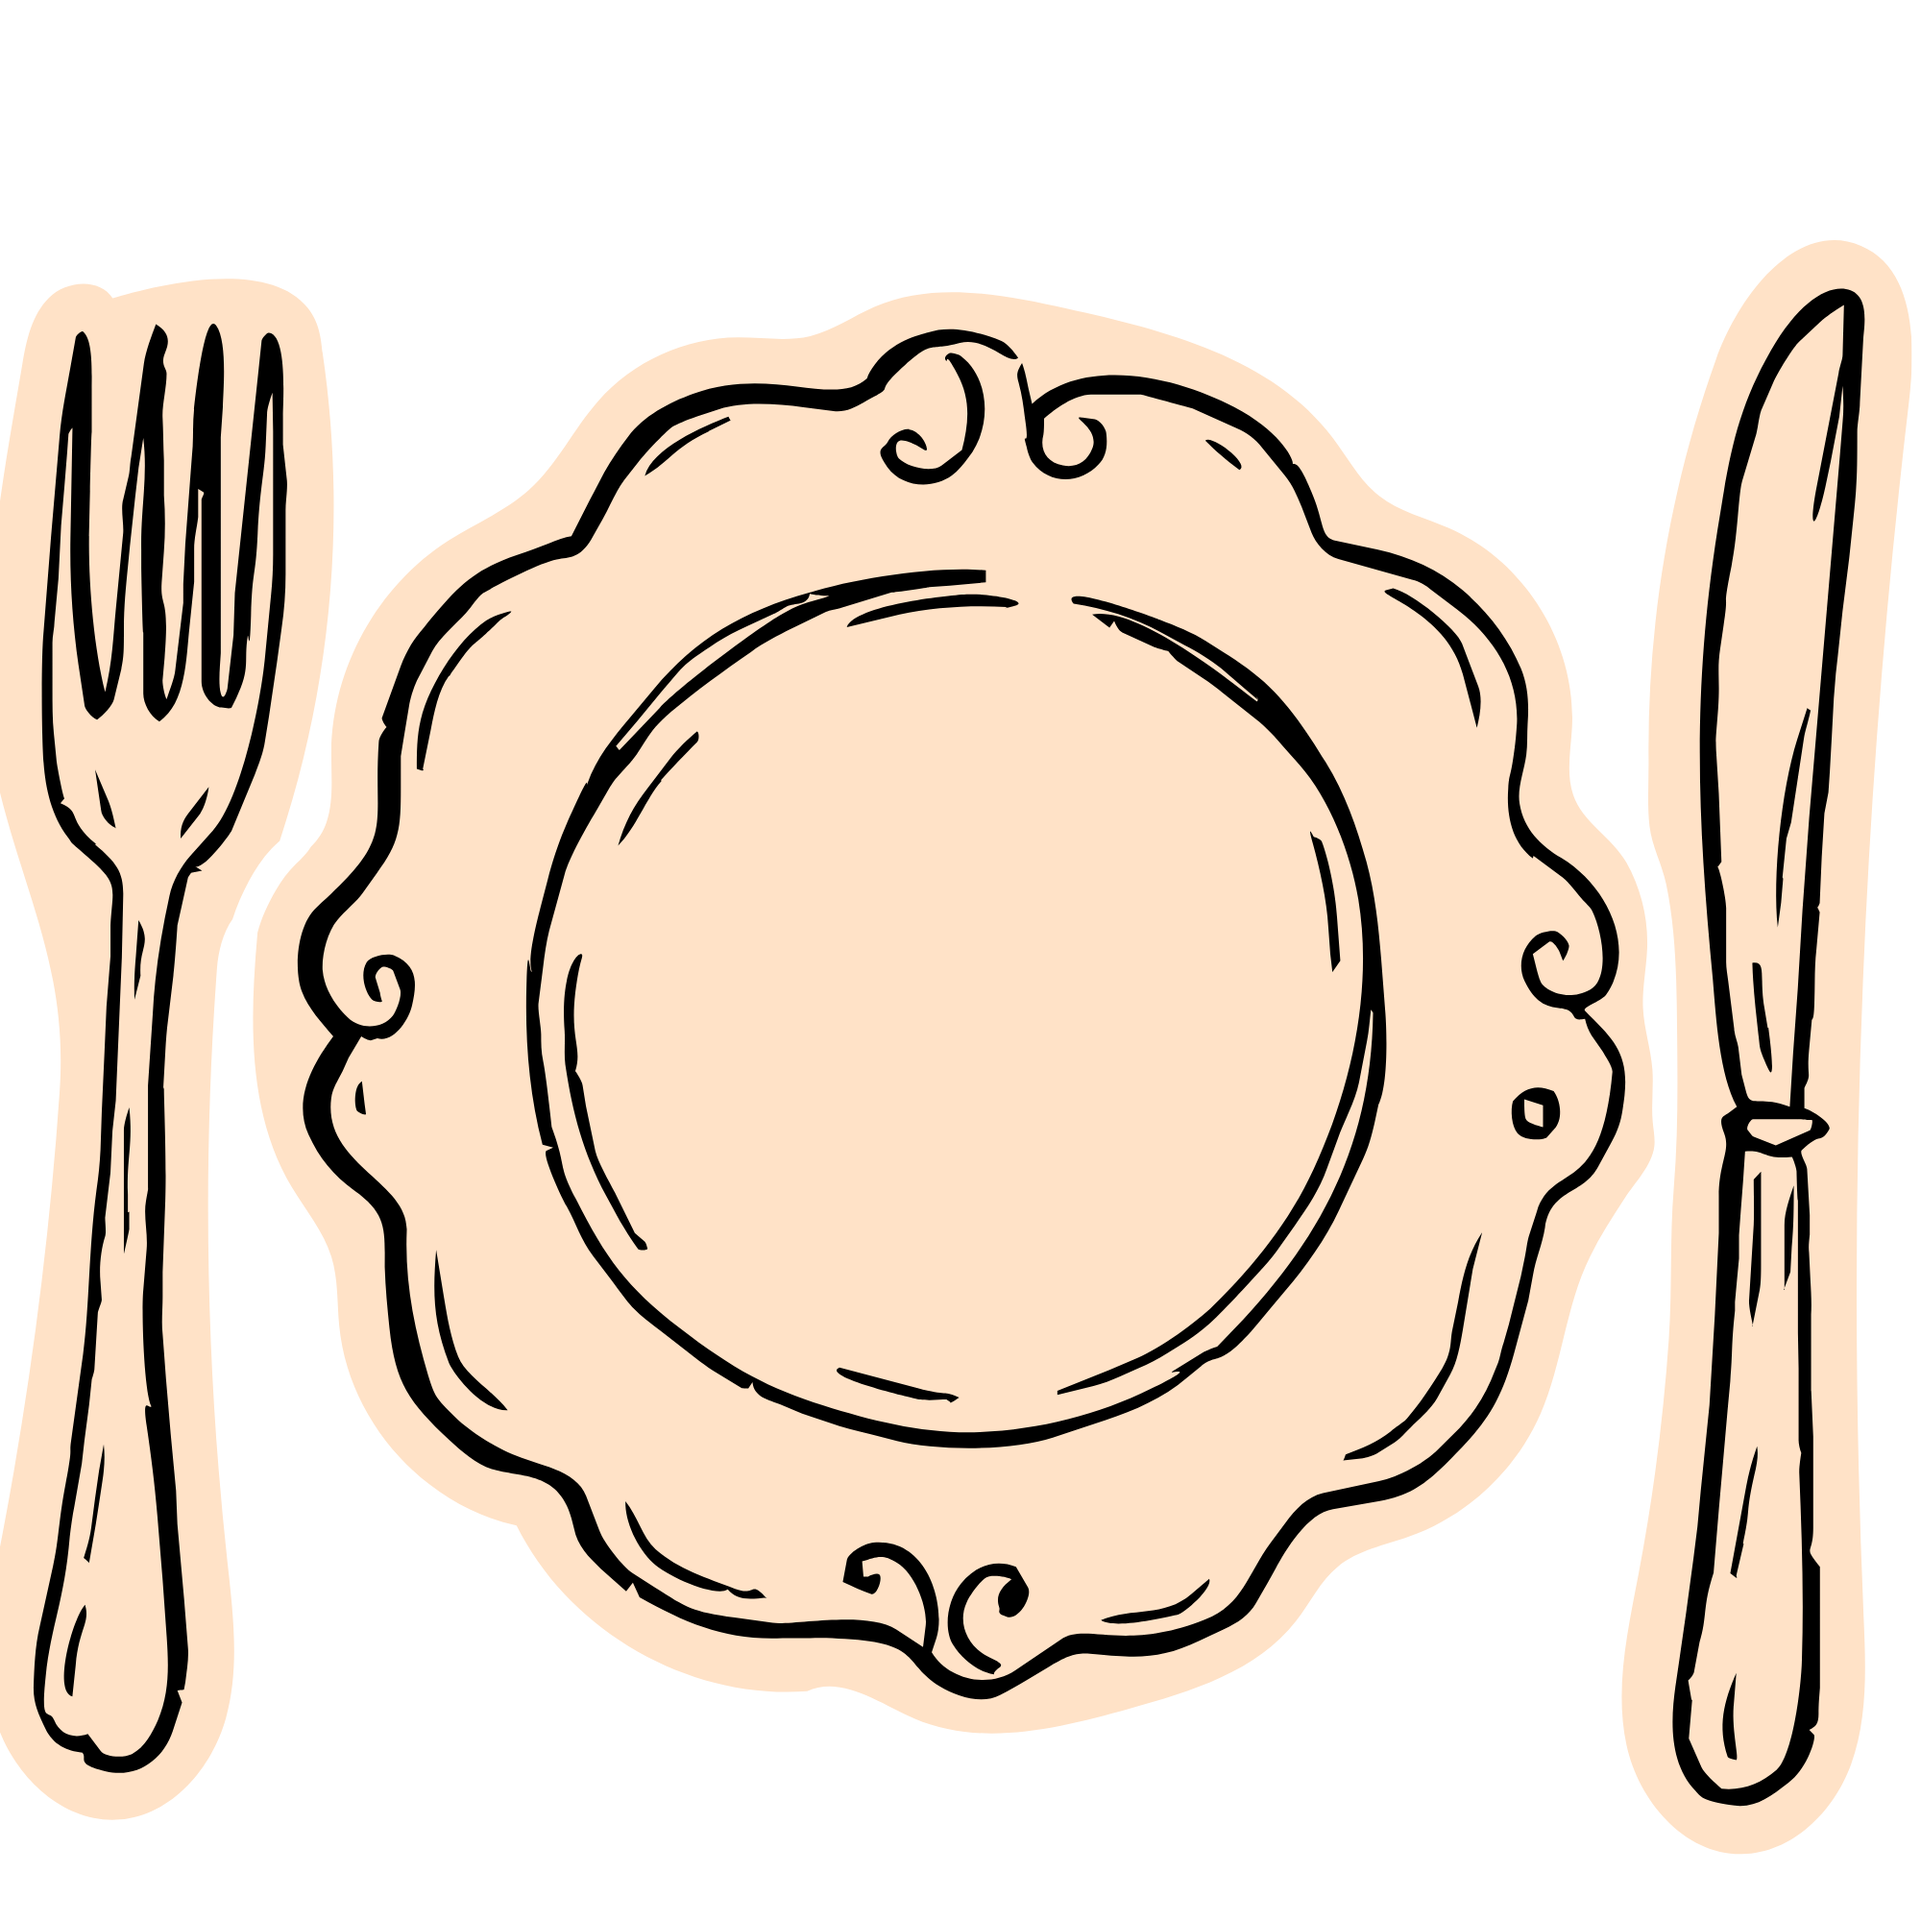
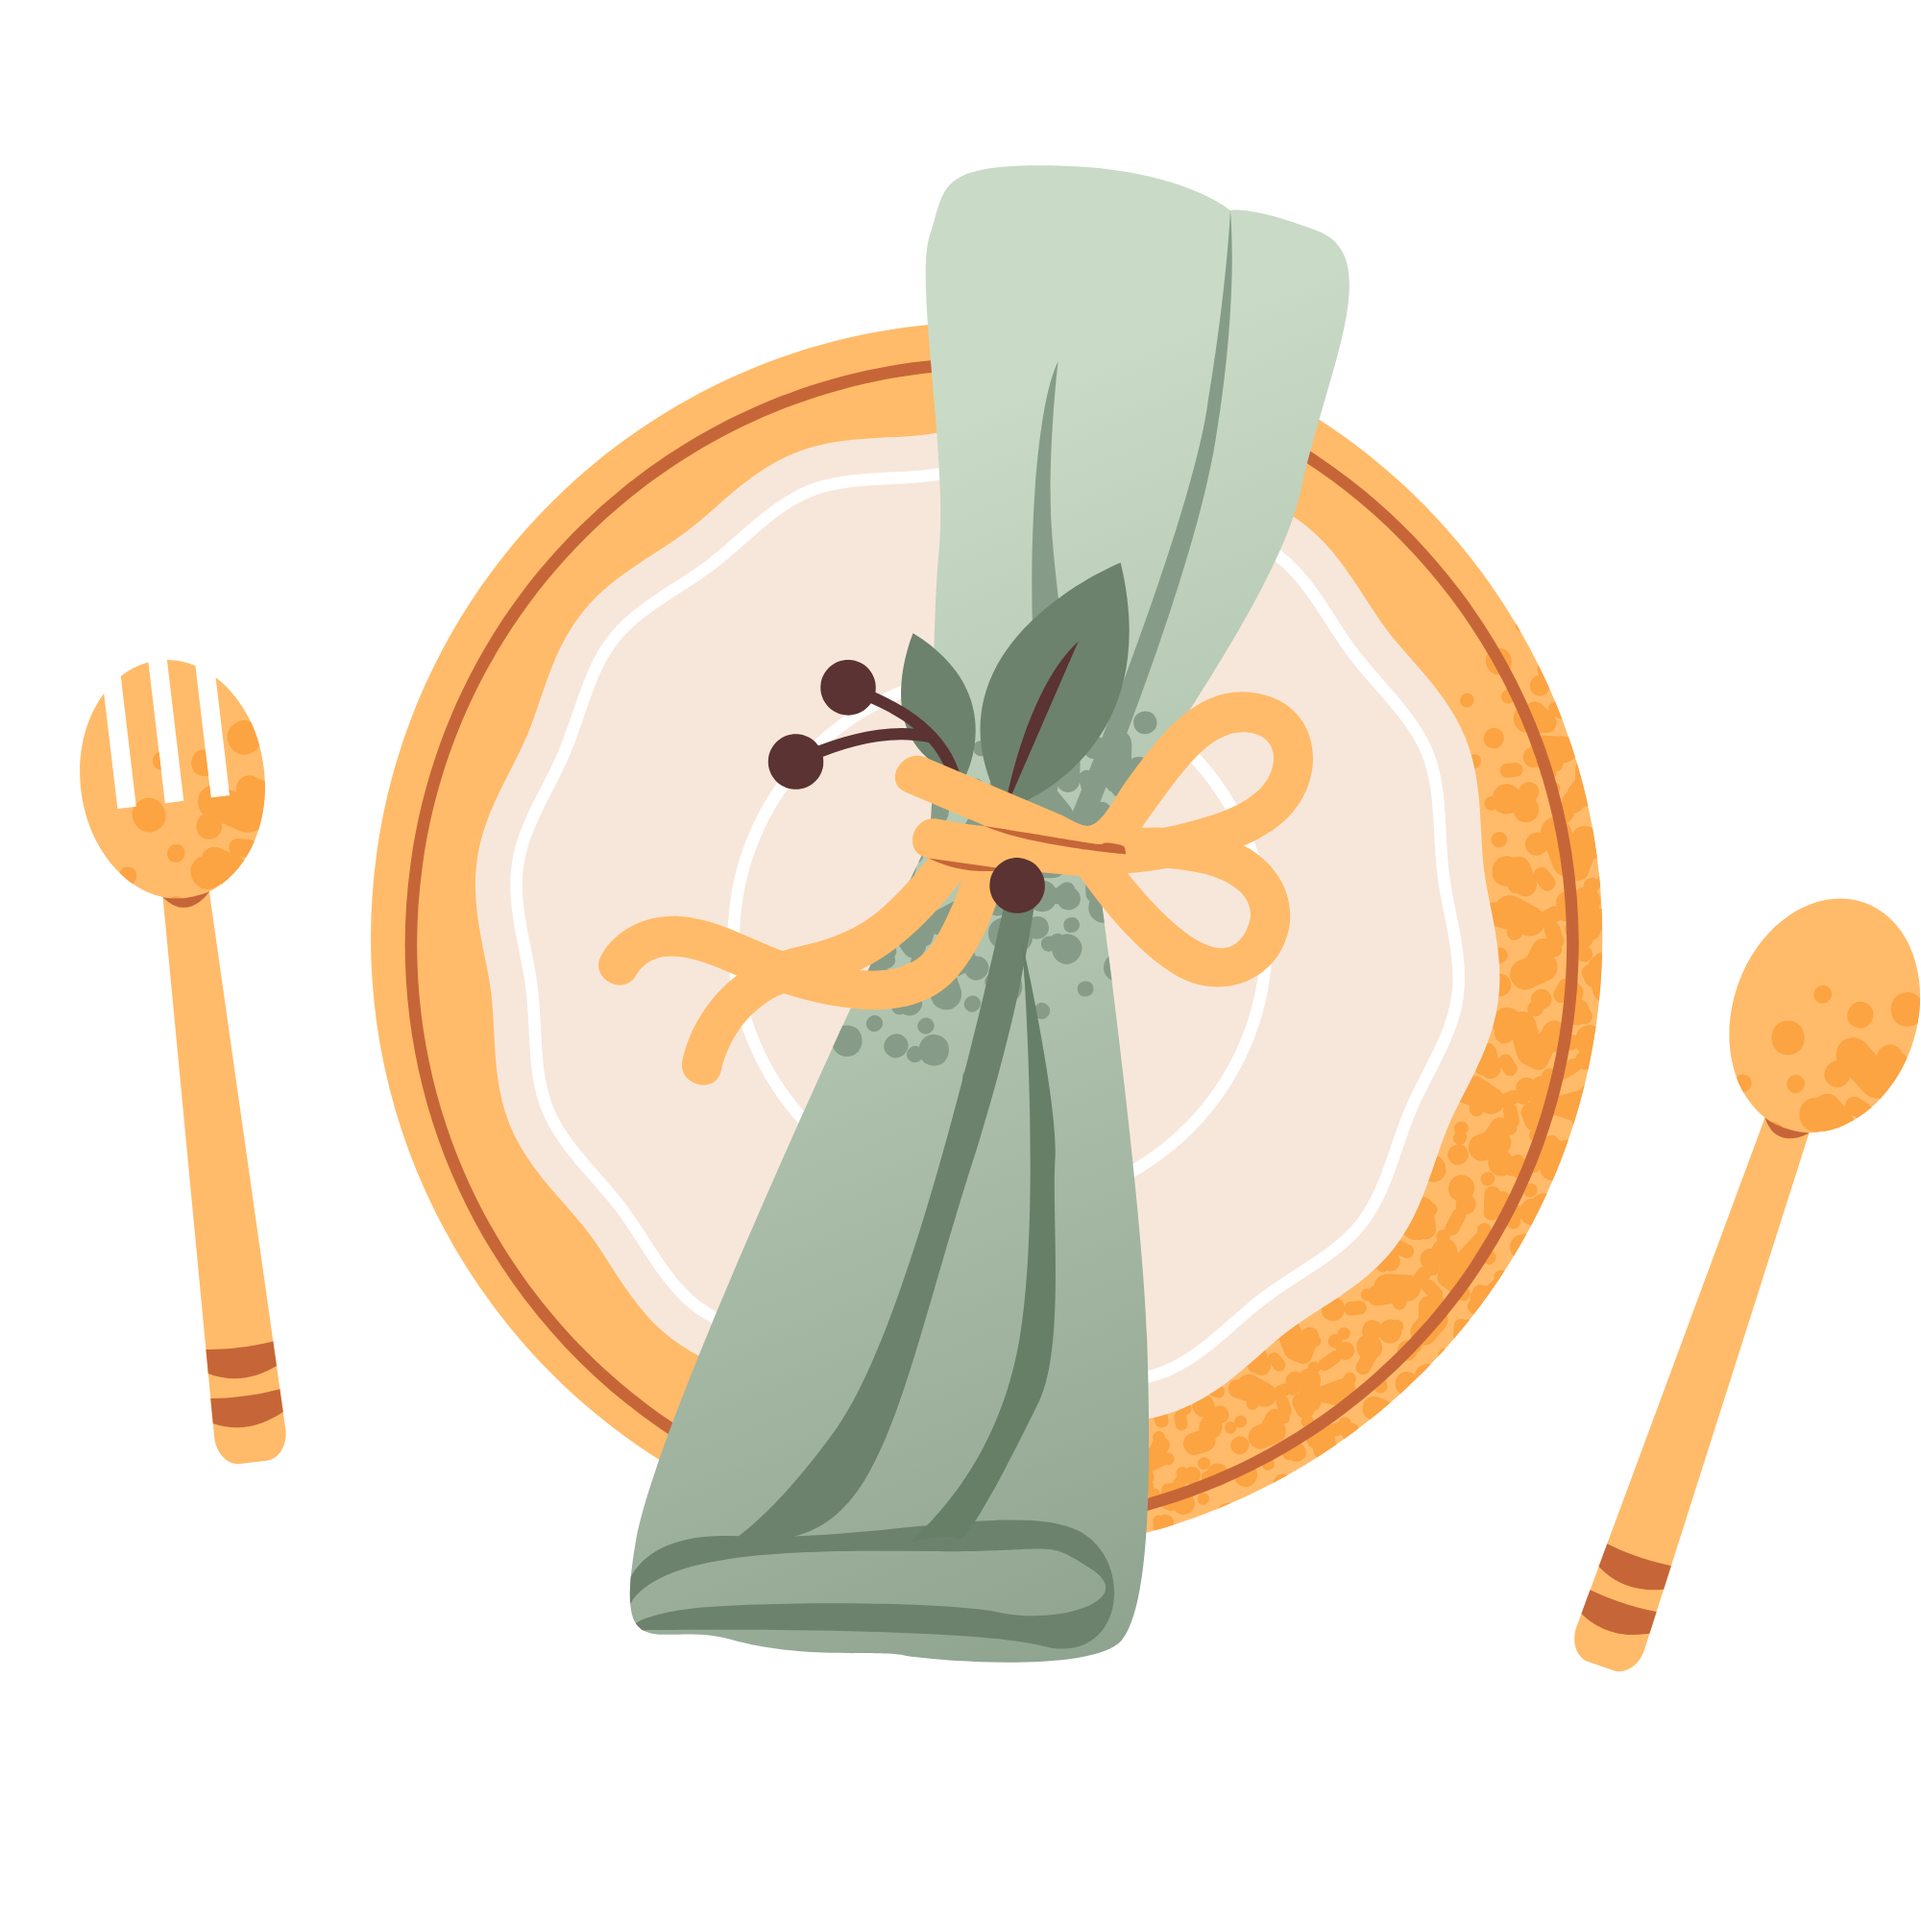
update

diff --git a/styles.css b/styles.css
@@ -87,7 +87,7 @@ img {
   max-width: 560px;
   margin: 0 auto;
   background: var(--blush);
-  box-shadow: 0 0 60px rgba(90, 68, 68, 0.15);
+  box-shadow: 0 0 60px rgba(31, 45, 77, 0.15);
   overflow: hidden;
 }
 
@@ -311,7 +311,7 @@ h2.script {
   width: 4px;
   height: 4px;
   border-radius: 50%;
-  background: radial-gradient(circle, rgba(255, 245, 225, 0.9), rgba(201, 161, 90, 0.4) 60%, transparent 75%);
+  background: radial-gradient(circle, rgba(255, 245, 225, 0.9), rgba(209, 112, 154, 0.4) 60%, transparent 75%);
   opacity: 0;
   animation: drift 10s ease-in-out infinite;
 }
@@ -436,7 +436,7 @@ h2.script {
   inset: -14px;
   z-index: -1;
   border-radius: 1.4rem;
-  background: radial-gradient(circle, rgba(201, 161, 90, 0.22), transparent 72%);
+  background: radial-gradient(circle, rgba(209, 112, 154, 0.22), transparent 72%);
   opacity: 0;
   animation: glowIn 0.8s var(--ease) forwards;
 }
@@ -471,7 +471,7 @@ h2.script {
   transform: translateY(-50%) scale(1.5);
   background: var(--gold);
   border-color: var(--gold);
-  box-shadow: 0 0 0 5px rgba(201, 161, 90, 0.22);
+  box-shadow: 0 0 0 5px rgba(209, 112, 154, 0.22);
 }
 
 .timeline-dot.active {
@@ -479,8 +479,8 @@ h2.script {
 }
 
 @keyframes dotPulse {
-  0%, 100% { box-shadow: 0 0 0 5px rgba(201, 161, 90, 0.22); }
-  50% { box-shadow: 0 0 0 9px rgba(201, 161, 90, 0.12); }
+  0%, 100% { box-shadow: 0 0 0 5px rgba(209, 112, 154, 0.22); }
+  50% { box-shadow: 0 0 0 9px rgba(209, 112, 154, 0.12); }
 }
 
 .timeline-dot.ripple::after {
@@ -560,7 +560,7 @@ h2.script {
   position: absolute;
   inset: 8%;
   border-radius: 50%;
-  background: radial-gradient(circle, rgba(201, 161, 90, 0.35), transparent 70%);
+  background: radial-gradient(circle, rgba(209, 112, 154, 0.35), transparent 70%);
   opacity: 0;
   transform: scale(0.7);
   transition: opacity 0.4s ease, transform 0.4s ease;
@@ -586,12 +586,12 @@ h2.script {
   width: 100%;
   height: 100%;
   object-fit: contain;
-  filter: drop-shadow(0 8px 14px rgba(156, 92, 104, 0.18));
+  filter: drop-shadow(0 8px 14px rgba(31, 45, 77, 0.18));
   transition: filter 0.4s ease;
 }
 
 .timeline-row:hover .timeline-icon img {
-  filter: drop-shadow(0 10px 18px rgba(156, 92, 104, 0.3));
+  filter: drop-shadow(0 10px 18px rgba(31, 45, 77, 0.3));
 }
 
 .timeline-row.active .timeline-info strong {
@@ -691,7 +691,7 @@ h2.script {
   width: 4px;
   height: 4px;
   border-radius: 50%;
-  background: radial-gradient(circle, #fff8e6, var(--gold) 60%, transparent 75%);
+  background: radial-gradient(circle, #fff, var(--rose-deep) 60%, transparent 75%);
   opacity: 0;
   animation: drift 11s ease-in-out infinite;
   animation-play-state: paused;
@@ -735,8 +735,8 @@ h2.script {
   padding: 14px;
   border-radius: 1.4rem;
   background: linear-gradient(160deg, rgba(255, 255, 255, 0.55), rgba(255, 255, 255, 0.12));
-  border: 1px solid rgba(201, 161, 90, 0.45);
-  box-shadow: 0 25px 45px rgba(90, 68, 68, 0.18), inset 0 1px 0 rgba(255, 255, 255, 0.6);
+  border: 1px solid rgba(209, 112, 154, 0.45);
+  box-shadow: 0 25px 45px rgba(31, 45, 77, 0.18), inset 0 1px 0 rgba(255, 255, 255, 0.6);
   opacity: 0;
   transform: translateY(24px) scale(0.9);
   transition: opacity 0.9s var(--ease) 0.5s, transform 0.9s var(--ease) 0.5s;
@@ -754,7 +754,7 @@ h2.script {
   right: 12%;
   bottom: -14px;
   height: 26px;
-  background: radial-gradient(ellipse, rgba(90, 68, 68, 0.3), transparent 72%);
+  background: radial-gradient(ellipse, rgba(31, 45, 77, 0.3), transparent 72%);
   filter: blur(6px);
   z-index: -1;
 }
@@ -786,7 +786,7 @@ h2.script {
 .venue-image:hover {
   animation-play-state: paused;
   transform: scale(1.03);
-  filter: drop-shadow(0 14px 22px rgba(156, 92, 104, 0.25));
+  filter: drop-shadow(0 14px 22px rgba(31, 45, 77, 0.25));
 }
 
 @keyframes float {
@@ -880,7 +880,7 @@ h2.script {
   letter-spacing: 0.08em;
   text-transform: uppercase;
   text-decoration: none;
-  box-shadow: 0 10px 25px rgba(156, 92, 104, 0.15);
+  box-shadow: 0 10px 25px rgba(31, 45, 77, 0.15);
   opacity: 0;
   transform: translateY(18px);
   transition: opacity 0.8s var(--ease) 1.1s, transform 0.8s var(--ease) 1.1s, box-shadow 0.3s ease, background 0.3s ease;
@@ -894,7 +894,7 @@ h2.script {
 .setting-section.in-view .btn-venue:hover {
   transition: transform 0.3s var(--ease), box-shadow 0.3s ease, background 0.3s ease;
   background: rgba(255, 255, 255, 0.65);
-  box-shadow: 0 14px 34px rgba(201, 161, 90, 0.35), 0 0 0 4px rgba(201, 161, 90, 0.12);
+  box-shadow: 0 14px 34px rgba(209, 112, 154, 0.35), 0 0 0 4px rgba(209, 112, 154, 0.12);
   transform: translateY(-3px);
 }
 
@@ -964,7 +964,7 @@ h2.script {
   border-radius: 50%;
   pointer-events: none;
   background: radial-gradient(circle, rgba(255, 255, 255, 0.9), var(--rose) 55%, transparent 72%);
-  border: 1px solid rgba(156, 92, 104, 0.5);
+  border: 1px solid rgba(31, 45, 77, 0.5);
   animation: clickBurst 0.6s ease-out forwards;
 }
 
